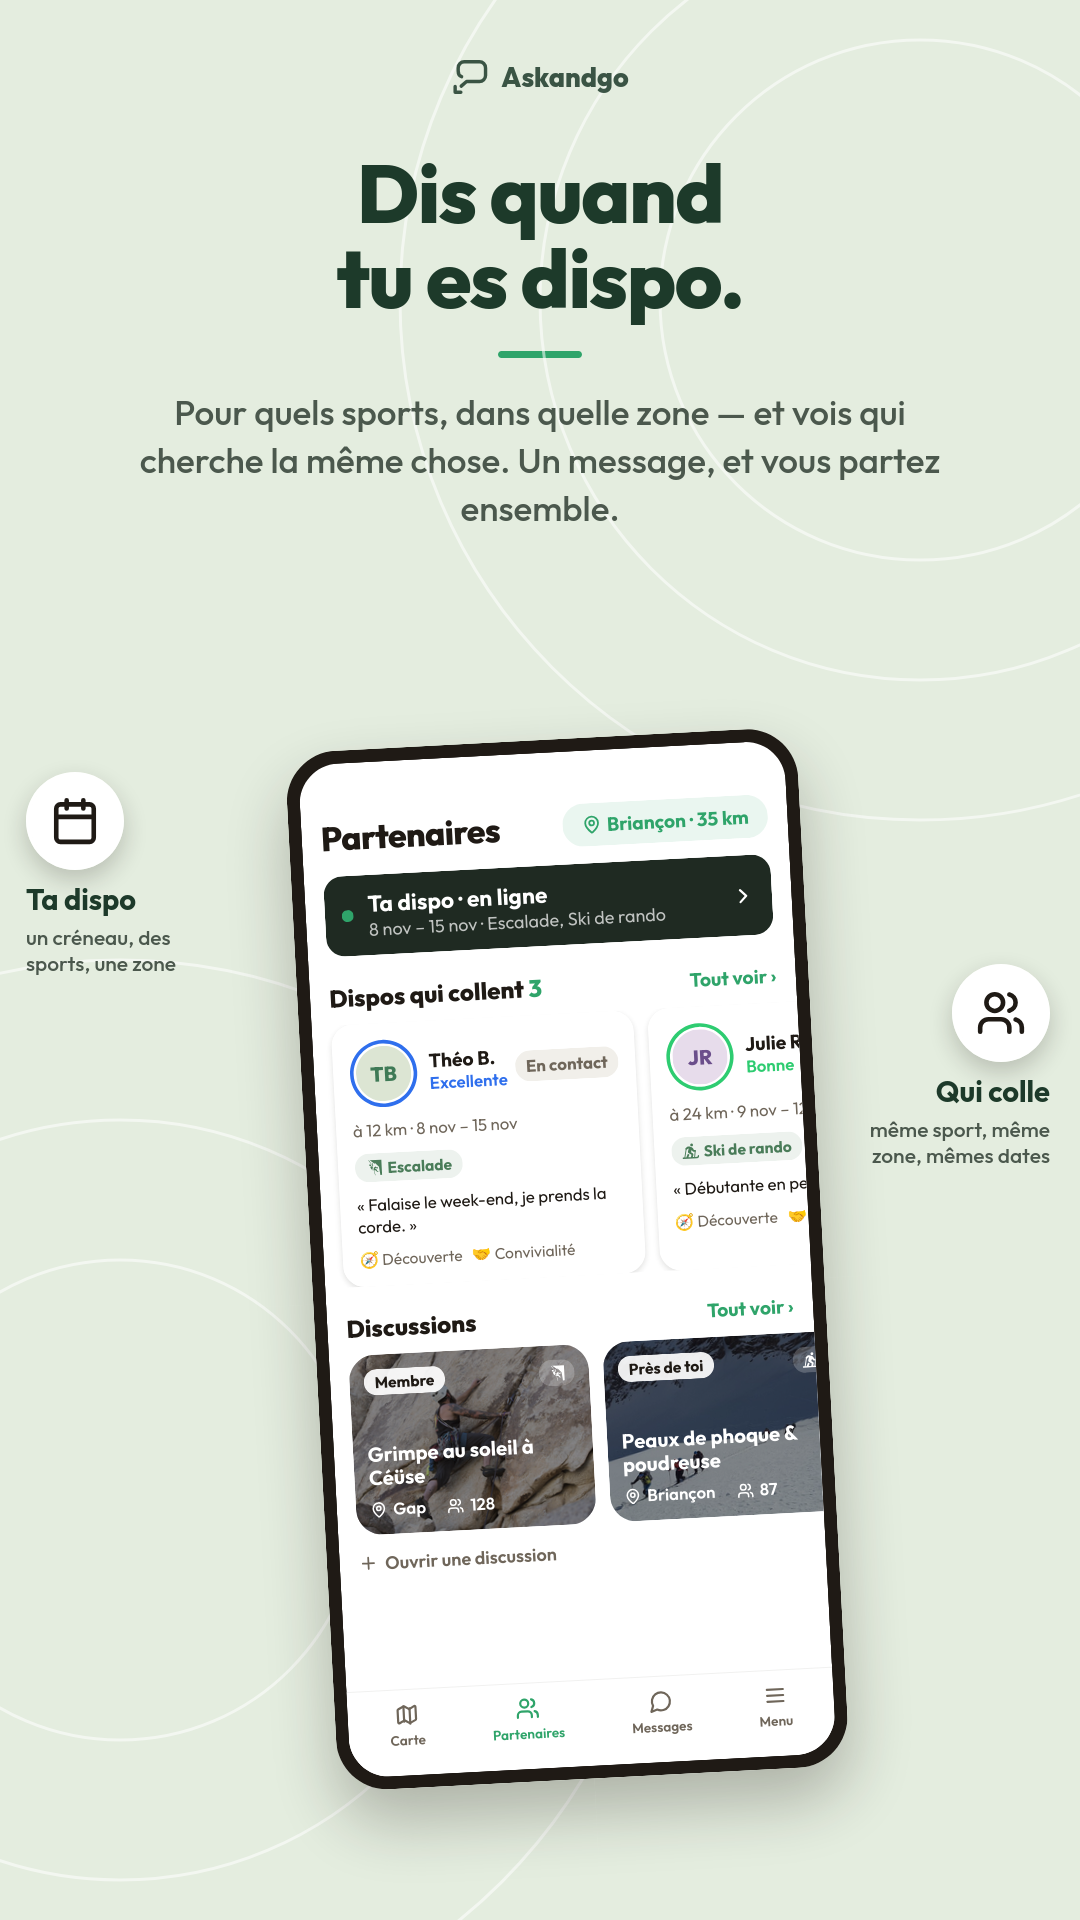
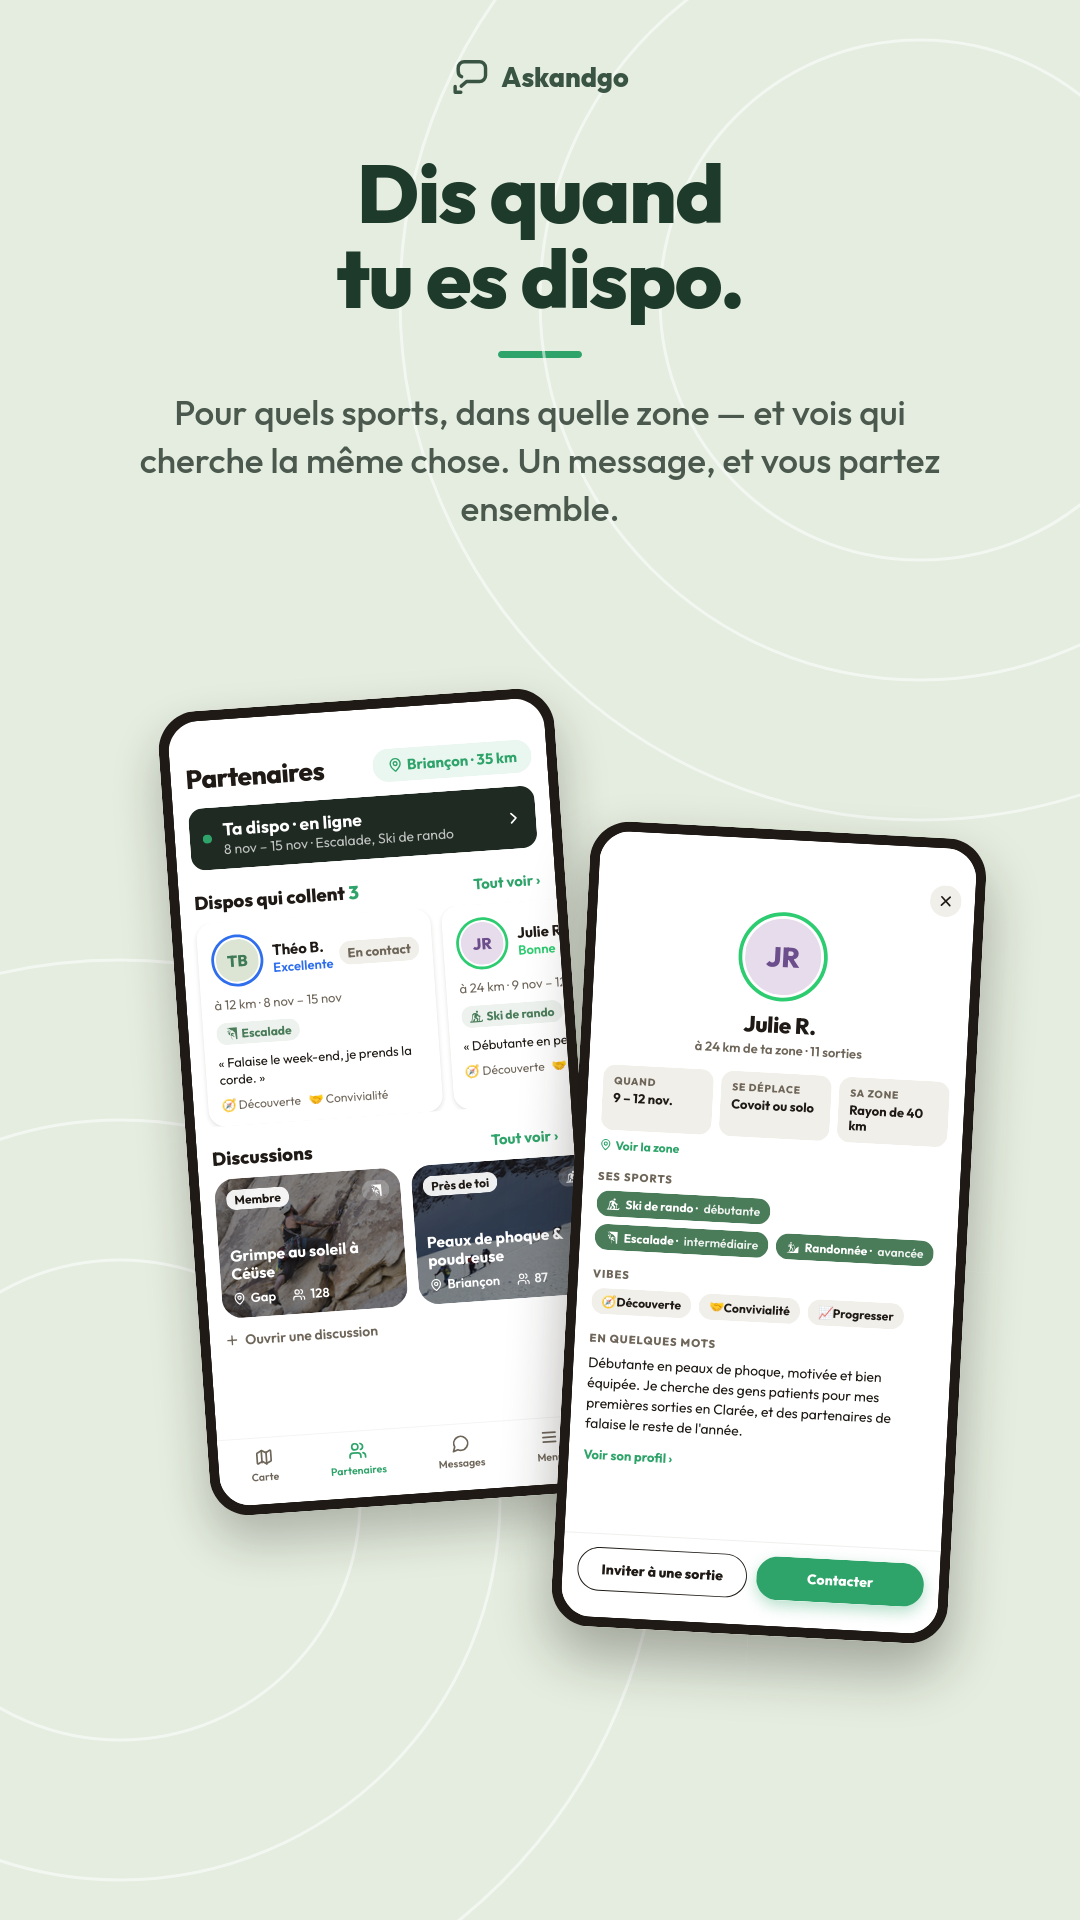
feat(play): images 3 and 6 as two screens — Partenaires → a dispo's page, pro page → the guided outing's page; no floating callouts; channel photos kept in the repo for the generator

Changed region(s): [[0.0, 0.3438, 0.9778, 0.9688]]

diff --git a/assets/play-store/askandgo/two.py b/assets/play-store/askandgo/two.py
@@ -1,0 +1,99 @@
+# Play images 3 and 6 as TWO screens each (Scott 2026-10-27): the screen and
+# the page that opens from it, no floating callouts.
+#   3 — Partenaires → the page of one « dispo »
+#   6 — the pro page → the page of one of their guided outings
+#   python3 two.py 3 out.html   /   python3 two.py 6 out.html
+import os, sys
+S = os.path.dirname(os.path.abspath(__file__))
+ROOT = os.path.abspath(f'{S}/../../..')
+src = open(f'{S}/generate.py').read()
+# helpers + the Partenaires body (image 3's first screen) as generate.py draws it
+src = src.replace("PH=lambda k:f'photos/demo-channel-{k}.jpg'", "PH=lambda k:f'file://{S}/photos/demo-channel-{k}.jpg'")  # absolute: the html lives elsewhere
+exec(src[:src.index("out['3-partenaires']")])  # noqa: S102
+partenaires_body = body
+# the pro page body as pro6.py draws it (image 6's first screen)
+p6 = open(f'{S}/pro6.py').read()
+exec(p6[p6.index("PRO = lambda"):p6.index('extra = (')])  # noqa: S102
+pro_body = body
+
+which = sys.argv[1]
+
+def two_screens(title, sub, body_a, body_b):
+    shell = screen(title, sub, '', '')
+    phones = (f'<div class="phone" style="left:34px;top:700px;transform:scale(.62) rotate(-4deg);z-index:1"><div class="scr">{body_a}</div></div>'
+              f'<div class="phone" style="left:470px;top:830px;transform:scale(.62) rotate(3deg);z-index:2;box-shadow:0 46px 90px rgba(31,26,21,.34)"><div class="scr">{body_b}</div></div>')
+    return shell.replace('<div class="phone"><div class="scr"></div></div>', phones)
+
+# ---------- 3 · the page of a dispo (app/(auth)/partners/dispo.tsx) ----------
+def chip(icon_html, text, bg='#F1EFEA', fg=INK):
+    return f'<span class="chip" style="background:{bg};color:{fg};font-size:13px;padding:6px 11px;gap:6px">{icon_html}{text}</span>'
+def block(label, value):
+    return f'<div style="flex:1;background:#F1EFEA;border-radius:14px;padding:10px 12px"><div style="font-size:11px;font-weight:800;letter-spacing:.8px;color:{SEC}">{label}</div><div style="font-size:14px;font-weight:700;margin-top:3px;line-height:1.2">{value}</div></div>'
+dispo_body = f'''<div class="zoomwrap" style="background:#FFF">
+<div style="display:flex;justify-content:flex-end;padding:40px 14px 0"><span style="width:34px;height:34px;border-radius:50%;background:#F1EFEA;display:inline-flex;align-items:center;justify-content:center"><svg width="18" height="18" viewBox="0 0 24 24" fill="none" stroke="{INK}" stroke-width="2.4" stroke-linecap="round"><path d="M18 6 6 18M6 6l12 12"/></svg></span></div>
+<div style="display:flex;flex-direction:column;align-items:center;padding:4px 16px 0">
+  <div style="width:96px;height:96px;border-radius:50%;border:4px solid {GOOD};padding:3px"><div class="av" style="width:100%;height:100%;background:#E7DCEB;color:#6B4E8B;font-size:30px">JR</div></div>
+  <div style="font-size:24px;font-weight:800;margin-top:10px;letter-spacing:-.3px">Julie R.</div>
+  <div style="font-size:14px;color:{SEC};font-weight:600;margin-top:3px">à 24 km de ta zone · 11 sorties</div>
+</div>
+<div style="display:flex;gap:8px;padding:16px 16px 0">{block('QUAND', '9 – 12 nov.')}{block('SE DÉPLACE', 'Covoit ou solo')}{block('SA ZONE', 'Rayon de 40 km')}</div>
+<div style="padding:0 16px"><div style="font-size:13px;color:{GREEN};font-weight:700;margin-top:8px;display:flex;align-items:center;gap:4px">{li('pin',13,GREEN)}Voir la zone</div></div>
+<div style="padding:18px 16px 0"><div style="font-size:12px;font-weight:800;letter-spacing:1px;color:{SEC}">SES SPORTS</div>
+  <div style="display:flex;flex-wrap:wrap;gap:8px;margin-top:8px">
+    {chip(sp('ski-touring',14,'#FFF'), 'Ski de rando · <span style="font-weight:600;opacity:.9">débutante</span>', UNI['ski-touring'], '#FFF')}
+    {chip(sp('climbing-sport',14,'#FFF'), 'Escalade · <span style="font-weight:600;opacity:.9">intermédiaire</span>', UNI['climbing-sport'], '#FFF')}
+    {chip(sp('hiking',14,'#FFF'), 'Randonnée · <span style="font-weight:600;opacity:.9">avancée</span>', UNI['hiking'], '#FFF')}
+  </div></div>
+<div style="padding:18px 16px 0"><div style="font-size:12px;font-weight:800;letter-spacing:1px;color:{SEC}">VIBES</div>
+  <div style="display:flex;flex-wrap:wrap;gap:8px;margin-top:8px">{chip('🧭', 'Découverte')}{chip('🤝', 'Convivialité')}{chip('📈', 'Progresser')}</div></div>
+<div style="padding:18px 16px 0"><div style="font-size:12px;font-weight:800;letter-spacing:1px;color:{SEC}">EN QUELQUES MOTS</div>
+  <div style="font-size:15px;line-height:1.45;margin-top:8px">Débutante en peaux de phoque, motivée et bien équipée. Je cherche des gens patients pour mes premières sorties en Clarée, et des partenaires de falaise le reste de l'année.</div></div>
+<div style="padding:14px 16px 0;font-size:14px;font-weight:700;color:{GREEN}">Voir son profil ›</div>
+<div style="margin-top:auto;padding:14px 16px 28px;display:flex;gap:10px;border-top:1px solid rgba(31,26,21,.08)">
+  <span style="flex:1;border:1.5px solid {INK};border-radius:999px;padding:13px 0;text-align:center;font-size:15px;font-weight:800">Inviter à une sortie</span>
+  <span style="flex:1;background:{GREEN};color:#FFF;border-radius:999px;padding:13px 0;text-align:center;font-size:15px;font-weight:800;box-shadow:0 6px 16px rgba(47,164,106,.35)">Contacter</span>
+</div></div>'''
+
+# ---------- 6 · the guided-outing page (components/offering-page.tsx) ----------
+def fact(icon_html, label, value):
+    return f'<div style="flex:1;min-width:46%;background:#F1EFEA;border-radius:14px;padding:10px 12px;display:flex;gap:9px;align-items:center">{icon_html}<div><div style="font-size:11px;font-weight:800;letter-spacing:.6px;color:{SEC}">{label}</div><div style="font-size:14px;font-weight:700;margin-top:2px">{value}</div></div></div>'
+offering_body = f'''<div class="zoomwrap" style="background:#FFF">
+<div style="position:relative;height:250px;background:url({PRO('p3.jpg')}) center/cover">
+  <div style="position:absolute;inset:0;background:linear-gradient(to bottom, rgba(0,0,0,.10) 0%, rgba(0,0,0,.10) 40%, rgba(0,0,0,.62) 100%)"></div>
+  <div style="position:absolute;left:12px;top:38px;display:flex;align-items:center;gap:6px;background:{UNI['ski-touring']};color:#FFF;border-radius:999px;padding:5px 11px;font-size:12px;font-weight:800">{sp('mountaineering',14,'#FFF')}Alpinisme</div>
+  <div style="position:absolute;right:12px;top:34px;display:flex;gap:8px">{roundbtn(lx('heart',18,INK),'#FFF',34)}{roundbtn(lx('share',18,INK),'#FFF',34)}{roundbtn(lx('x',18,INK),'#FFF',34)}</div>
+  <div style="position:absolute;left:16px;right:140px;bottom:14px;color:#FFF;text-shadow:0 1px 8px rgba(0,0,0,.55)">
+    <div style="font-size:22px;font-weight:800;line-height:1.1;letter-spacing:-.3px">Dôme des Écrins · 2 jours</div>
+    <div style="display:flex;align-items:center;gap:5px;font-size:13px;margin-top:5px"><svg width="14" height="14" viewBox="0 0 24 24" fill="#FBBF24" stroke="#FBBF24" stroke-width="1.6" stroke-linejoin="round">{L['star']}</svg><b>4,5</b><span style="opacity:.9">· 2 avis</span></div>
+  </div>
+  <div style="position:absolute;right:12px;bottom:14px;display:flex;flex-direction:column;align-items:flex-end;gap:6px">
+    <span style="background:{GOLD};color:{INK};border-radius:999px;padding:4px 10px;font-size:10.5px;font-weight:800;letter-spacing:.8px">SORTIE ENCADRÉE</span>
+    <span style="background:#FFF;color:{INK};border-radius:12px;padding:6px 11px;font-size:17px;font-weight:800;box-shadow:0 2px 8px rgba(0,0,0,.2)">520 € <span style="font-size:11px;font-weight:600;color:{SEC}">/ pers.</span></span>
+  </div>
+</div>
+<div style="display:flex;align-items:center;gap:10px;padding:12px 16px;border-bottom:1px solid rgba(31,26,21,.08)">
+  <div style="width:34px;height:34px;border-radius:50%;background:url({PRO('avatar.jpg')}) center/cover"></div>
+  <div style="flex:1;font-size:13px"><span style="color:{SEC}">par</span> <b>Nicolas Pellissier</b><div style="font-size:12px;color:{SEC}">Guide de haute montagne · Briançon</div></div><span style="color:{SEC}">›</span>
+</div>
+<div style="display:flex;flex-wrap:wrap;gap:8px;padding:14px 16px 0">
+  {fact(li('clock',18,INK), 'DURÉE', '2 jours')}{fact(lx('bar',18,INK), 'NIVEAU', 'Intermédiaire')}
+  {fact(li('pin',18,INK), 'LIEU', 'Pré de Mme Carle')}{fact(li('users',18,INK), 'GROUPE', "jusqu'à 2 pers.")}
+</div>
+<div style="padding:16px 16px 0"><div style="font-size:16px;font-weight:800">À propos</div>
+  <div style="font-size:13.5px;line-height:1.45;margin-top:6px;color:#2E2A25">Le 4 000 des Écrins en deux jours : montée au refuge par le Glacier Blanc, départ nocturne, arête sommitale au lever du soleil. Bonne condition physique et une première expérience de cramponnage.</div></div>
+<div style="padding:14px 16px 0"><div style="font-size:16px;font-weight:800">Matériel</div>
+  <div style="font-size:11px;font-weight:800;letter-spacing:.8px;color:{SEC};margin-top:8px">FOURNI</div>
+  <div style="display:flex;flex-wrap:wrap;gap:6px;margin-top:6px"><span class="chip ok" style="font-size:12px;padding:5px 10px">{li('check',13,'#1E6B45',3)}Corde</span><span class="chip ok" style="font-size:12px;padding:5px 10px">{li('check',13,'#1E6B45',3)}Matériel glacier</span><span class="chip ok" style="font-size:12px;padding:5px 10px">{li('check',13,'#1E6B45',3)}Crampons, piolet</span></div>
+  <div style="font-size:11px;font-weight:800;letter-spacing:.8px;color:{SEC};margin-top:10px">À PRÉVOIR</div>
+  <div style="display:flex;flex-wrap:wrap;gap:6px;margin-top:6px"><span class="chip" style="font-size:12px;padding:5px 10px">Chaussures cramponnables</span><span class="chip" style="font-size:12px;padding:5px 10px">Baudrier et casque</span><span class="chip" style="font-size:12px;padding:5px 10px">Sac 35 L</span></div></div>
+<div style="margin-top:auto;display:flex;align-items:center;justify-content:space-between;padding:12px 16px 26px;border-top:1px solid rgba(31,26,21,.08);background:#FFF">
+  <div><div style="font-size:19px;font-weight:800">520 € <span style="font-size:12px;color:{SEC};font-weight:600">/ pers.</span></div><div style="font-size:11.5px;color:{SEC}">Juin à septembre · nuit au refuge</div></div>
+  <span style="background:{GREEN};color:#FFF;border-radius:999px;padding:12px 26px;font-size:15px;font-weight:800;box-shadow:0 6px 16px rgba(47,164,106,.35)">Réserver</span>
+</div></div>'''
+
+if which == '3':
+    html = two_screens('Dis quand<br>tu es dispo.', 'Pour quels sports, dans quelle zone — et vois qui cherche la même chose. Un message, et vous partez ensemble.', partenaires_body, dispo_body)
+else:
+    html = two_screens('Guides et moniteurs,<br>sur la même carte.', "Leur page, leurs sorties encadrées avec tarifs et places, des avis vérifiés. Tu choisis, tu réserves.", pro_body, offering_body)
+open(sys.argv[2], 'w').write(html)
+print('ok')
